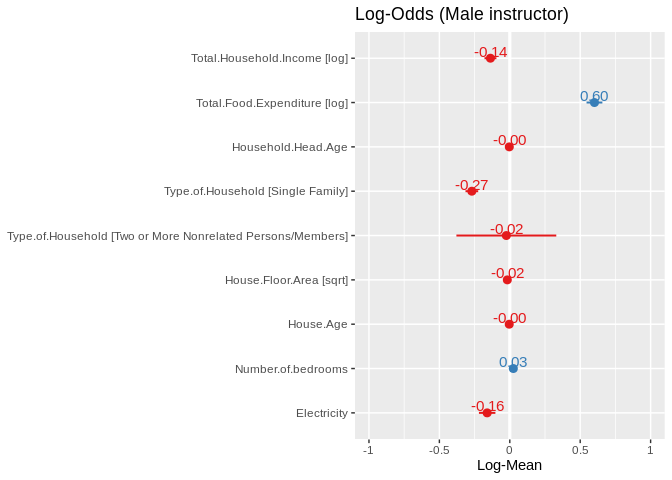
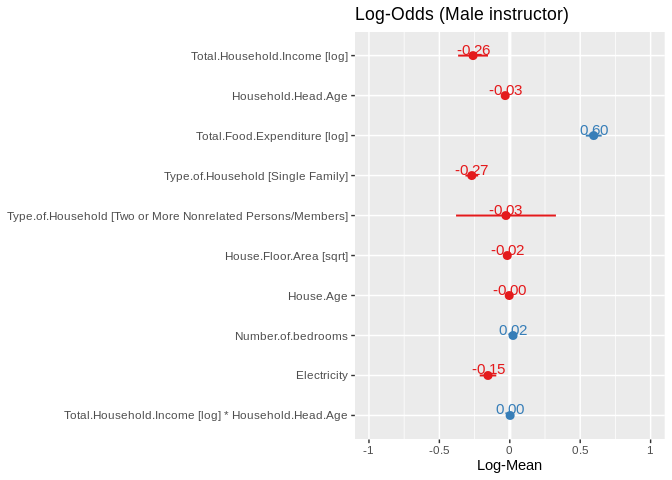
update formal analysis

diff --git a/group_04.md b/group_04.md
@@ -3,6 +3,8 @@ Group\_04
 Suraj Kumar
 17/07/2021
 
+![](group_04_files/figure-gfm/data-1.png)<!-- -->
+
 # Introduction
 
 # Exploratory Data Analysis
@@ -14,46 +16,48 @@ excluded Region as a covariate because there was only one factor.
 
 
     Call:
-    glm(formula = Total.Number.of.Family.members ~ log(Total.Household.Income) + 
-        log(Total.Food.Expenditure) + Household.Head.Age + Type.of.Household + 
+    glm(formula = Total.Number.of.Family.members ~ log(Total.Household.Income) * 
+        Household.Head.Age + log(Total.Food.Expenditure) + Type.of.Household + 
         sqrt(House.Floor.Area) + House.Age + Number.of.bedrooms + 
         Electricity, family = "poisson", data = data)
 
     Deviance Residuals: 
         Min       1Q   Median       3Q      Max  
-    -3.4578  -0.5900  -0.1078   0.4460   3.3253  
+    -3.3643  -0.5747  -0.1084   0.4285   3.3970  
 
     Coefficients:
                                                               Estimate Std. Error
-    (Intercept)                                             -2.9408534  0.2464422
-    log(Total.Household.Income)                             -0.1373393  0.0215921
-    log(Total.Food.Expenditure)                              0.6012710  0.0286700
-    Household.Head.Age                                      -0.0034176  0.0008134
-    Type.of.HouseholdSingle Family                          -0.2694626  0.0230167
-    Type.of.HouseholdTwo or More Nonrelated Persons/Members -0.0244688  0.1809300
-    sqrt(House.Floor.Area)                                  -0.0175685  0.0055736
-    House.Age                                               -0.0039392  0.0010306
-    Number.of.bedrooms                                       0.0251192  0.0128044
-    Electricity                                             -0.1606533  0.0298505
+    (Intercept)                                             -1.4412677  0.6496268
+    log(Total.Household.Income)                             -0.2608649  0.0541301
+    Household.Head.Age                                      -0.0325290  0.0117005
+    log(Total.Food.Expenditure)                              0.5961661  0.0287287
+    Type.of.HouseholdSingle Family                          -0.2697590  0.0230558
+    Type.of.HouseholdTwo or More Nonrelated Persons/Members -0.0269692  0.1809345
+    sqrt(House.Floor.Area)                                  -0.0178763  0.0055729
+    House.Age                                               -0.0039878  0.0010318
+    Number.of.bedrooms                                       0.0230408  0.0128409
+    Electricity                                             -0.1546339  0.0299597
+    log(Total.Household.Income):Household.Head.Age           0.0024897  0.0009981
                                                             z value Pr(>|z|)    
-    (Intercept)                                             -11.933  < 2e-16 ***
-    log(Total.Household.Income)                              -6.361 2.01e-10 ***
-    log(Total.Food.Expenditure)                              20.972  < 2e-16 ***
-    Household.Head.Age                                       -4.202 2.65e-05 ***
-    Type.of.HouseholdSingle Family                          -11.707  < 2e-16 ***
-    Type.of.HouseholdTwo or More Nonrelated Persons/Members  -0.135 0.892423    
-    sqrt(House.Floor.Area)                                   -3.152 0.001621 ** 
-    House.Age                                                -3.822 0.000132 ***
-    Number.of.bedrooms                                        1.962 0.049790 *  
-    Electricity                                              -5.382 7.37e-08 ***
+    (Intercept)                                              -2.219 0.026513 *  
+    log(Total.Household.Income)                              -4.819 1.44e-06 ***
+    Household.Head.Age                                       -2.780 0.005434 ** 
+    log(Total.Food.Expenditure)                              20.752  < 2e-16 ***
+    Type.of.HouseholdSingle Family                          -11.700  < 2e-16 ***
+    Type.of.HouseholdTwo or More Nonrelated Persons/Members  -0.149 0.881510    
+    sqrt(House.Floor.Area)                                   -3.208 0.001338 ** 
+    House.Age                                                -3.865 0.000111 ***
+    Number.of.bedrooms                                        1.794 0.072760 .  
+    Electricity                                              -5.161 2.45e-07 ***
+    log(Total.Household.Income):Household.Head.Age            2.494 0.012620 *  
     ---
     Signif. codes:  0 '***' 0.001 '**' 0.01 '*' 0.05 '.' 0.1 ' ' 1
 
     (Dispersion parameter for poisson family taken to be 1)
 
         Null deviance: 2217.8  on 2121  degrees of freedom
-    Residual deviance: 1343.1  on 2112  degrees of freedom
-    AIC: 8301.1
+    Residual deviance: 1336.9  on 2111  degrees of freedom
+    AIC: 8296.9
 
     Number of Fisher Scoring iterations: 4
 
@@ -76,10 +80,10 @@ excluded Region as a covariate because there was only one factor.
 (Intercept)
 </td>
 <td style="text-align:right;">
--3.4236821
+-2.7152526
 </td>
 <td style="text-align:right;">
--2.4576544
+-0.1688543
 </td>
 </tr>
 <tr>
@@ -87,21 +91,10 @@ excluded Region as a covariate because there was only one factor.
 log(Total.Household.Income)
 </td>
 <td style="text-align:right;">
--0.1796516
+-0.3670496
 </td>
 <td style="text-align:right;">
--0.0950141
-</td>
-</tr>
-<tr>
-<td style="text-align:left;">
-log(Total.Food.Expenditure)
-</td>
-<td style="text-align:right;">
-0.5448658
-</td>
-<td style="text-align:right;">
-0.6572414
+-0.1548714
 </td>
 </tr>
 <tr>
@@ -109,10 +102,21 @@ log(Total.Food.Expenditure)
 Household.Head.Age
 </td>
 <td style="text-align:right;">
--0.0050130
+-0.0554479
 </td>
 <td style="text-align:right;">
--0.0018246
+-0.0095849
+</td>
+</tr>
+<tr>
+<td style="text-align:left;">
+log(Total.Food.Expenditure)
+</td>
+<td style="text-align:right;">
+0.5396511
+</td>
+<td style="text-align:right;">
+0.6522564
 </td>
 </tr>
 <tr>
@@ -120,10 +124,10 @@ Household.Head.Age
 Type.of.HouseholdSingle Family
 </td>
 <td style="text-align:right;">
--0.3145006
+-0.3148743
 </td>
 <td style="text-align:right;">
--0.2242739
+-0.2244942
 </td>
 </tr>
 <tr>
@@ -131,10 +135,10 @@ Type.of.HouseholdSingle Family
 Type.of.HouseholdTwo or More Nonrelated Persons/Members
 </td>
 <td style="text-align:right;">
--0.4007295
+-0.4032378
 </td>
 <td style="text-align:right;">
-0.3109503
+0.3084597
 </td>
 </tr>
 <tr>
@@ -142,10 +146,10 @@ Type.of.HouseholdTwo or More Nonrelated Persons/Members
 sqrt(House.Floor.Area)
 </td>
 <td style="text-align:right;">
--0.0285609
+-0.0288674
 </td>
 <td style="text-align:right;">
--0.0067129
+-0.0070222
 </td>
 </tr>
 <tr>
@@ -153,10 +157,10 @@ sqrt(House.Floor.Area)
 House.Age
 </td>
 <td style="text-align:right;">
--0.0059678
+-0.0060189
 </td>
 <td style="text-align:right;">
--0.0019280
+-0.0019741
 </td>
 </tr>
 <tr>
@@ -164,10 +168,10 @@ House.Age
 Number.of.bedrooms
 </td>
 <td style="text-align:right;">
-0.0000059
+-0.0021447
 </td>
 <td style="text-align:right;">
-0.0501979
+0.0481903
 </td>
 </tr>
 <tr>
@@ -175,16 +179,27 @@ Number.of.bedrooms
 Electricity
 </td>
 <td style="text-align:right;">
--0.2189236
+-0.2131185
 </td>
 <td style="text-align:right;">
--0.1019048
+-0.0956715
+</td>
+</tr>
+<tr>
+<td style="text-align:left;">
+log(Total.Household.Income):Household.Head.Age
+</td>
+<td style="text-align:right;">
+0.0005322
+</td>
+<td style="text-align:right;">
+0.0044447
 </td>
 </tr>
 </tbody>
 </table>
 
-![](group_04_files/figure-gfm/model1-1.png)<!-- -->
+![](group_04_files/figure-gfm/model1-1.png)<!-- -->![](group_04_files/figure-gfm/model1-2.png)<!-- -->![](group_04_files/figure-gfm/model1-3.png)<!-- -->
 
 # Conclusions
 
